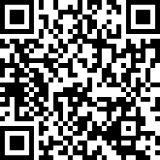
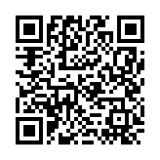
changes in sawa media

diff --git a/public/index.html b/public/index.html
@@ -3,7 +3,7 @@
   <head>
     <meta charset="utf-8" />
     <meta name="viewport" content="width=device-width, initial-scale=1" />
-    <title>TVC News </title>
+    <title>Sawa media </title>
     <link href="https://fonts.googleapis.com/css2?family=Noto+Sans&family=Poppins&family=Roboto&display=swap" rel="stylesheet">
     <link rel="preconnect" href="https://fonts.googleapis.com">
     <link rel="preconnect" href="https://fonts.gstatic.com" crossorigin>

diff --git a/src/Components/QrCode.js b/src/Components/QrCode.js
@@ -12,8 +12,8 @@ const QrCode = () => {
                 <img src={BoltLogo} alt="Bolt Logo" />
             </div>
         </div>
-        <div>
-            <img src={QR} alt="QR Code" style={{width:'75px', borderRadius: '5px'}} />
+        <div style={{padding: "4px", borderRadius: "10px", background: "#fff"}}>
+            <img src={QR} alt="QR Code" style={{width:'95px'}} />
         </div>
     </div>
   )

diff --git a/src/pages/chat/RadioPlayer.js b/src/pages/chat/RadioPlayer.js
@@ -1,6 +1,6 @@
 import React from 'react';
 import ReactPlayer from 'react-player';
-import Bgimage from '../../assets/new-ss.png'
+import Bgimage from '../../assets/screenshot.jpg'
 
 const RadioPlayer = ({ url }) => {
   return (

diff --git a/src/App.css b/src/App.css
@@ -134,7 +134,7 @@ body {
 }
 
 #scrollableDiv {
-  min-height: calc(100vh - 290px);
+  min-height: calc(100vh - 305px);
 }
 
 .gradient-bg {
